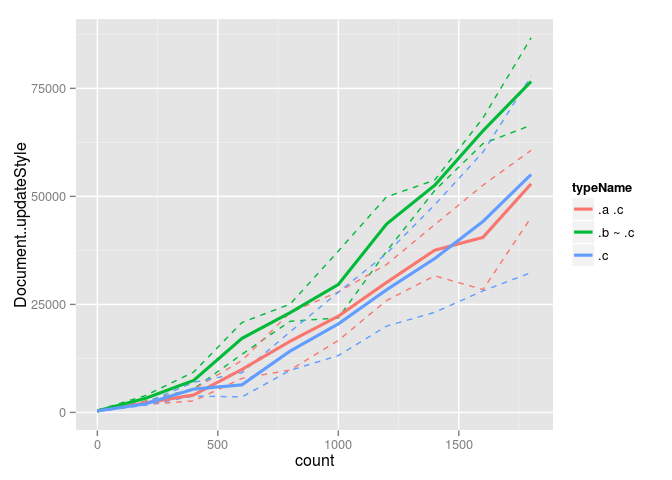
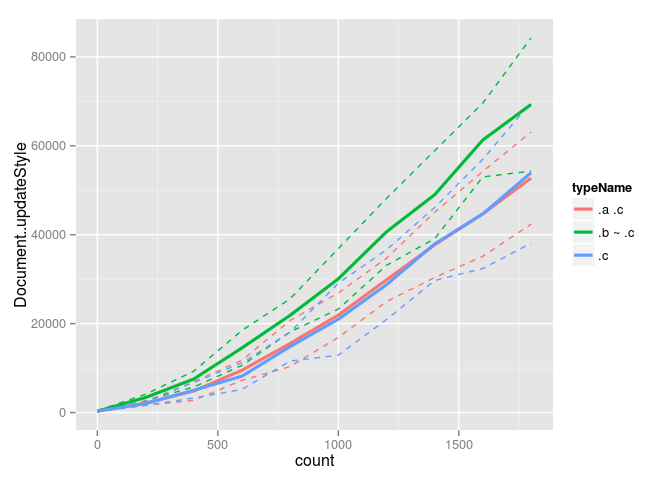
Added minifier, modified capture to save minified traces as well as raw traces.

diff --git a/styleModel.md b/styleModel.md
@@ -1,1 +1,20 @@
+Comparison of single selectors ".a .c", ".b ~ .c", and ".c" matching against variable number of element subtrees:
+
+    <div class='a'>
+      <div class='b'>
+      </div>
+      <div class='c'>
+      </div>
+    </div>
+
+Three properties are set in a single rule:
+
+    %SEL {
+      background-color: red;
+      width: 100px;
+      height: 100px;
+    }
+
+Graphs contain 630 samples.
+
 ![](styleModel_files/figure-markdown_github/unnamed-chunk-2-1.png) ![](styleModel_files/figure-markdown_github/unnamed-chunk-2-2.png) ![](styleModel_files/figure-markdown_github/unnamed-chunk-2-3.png)
